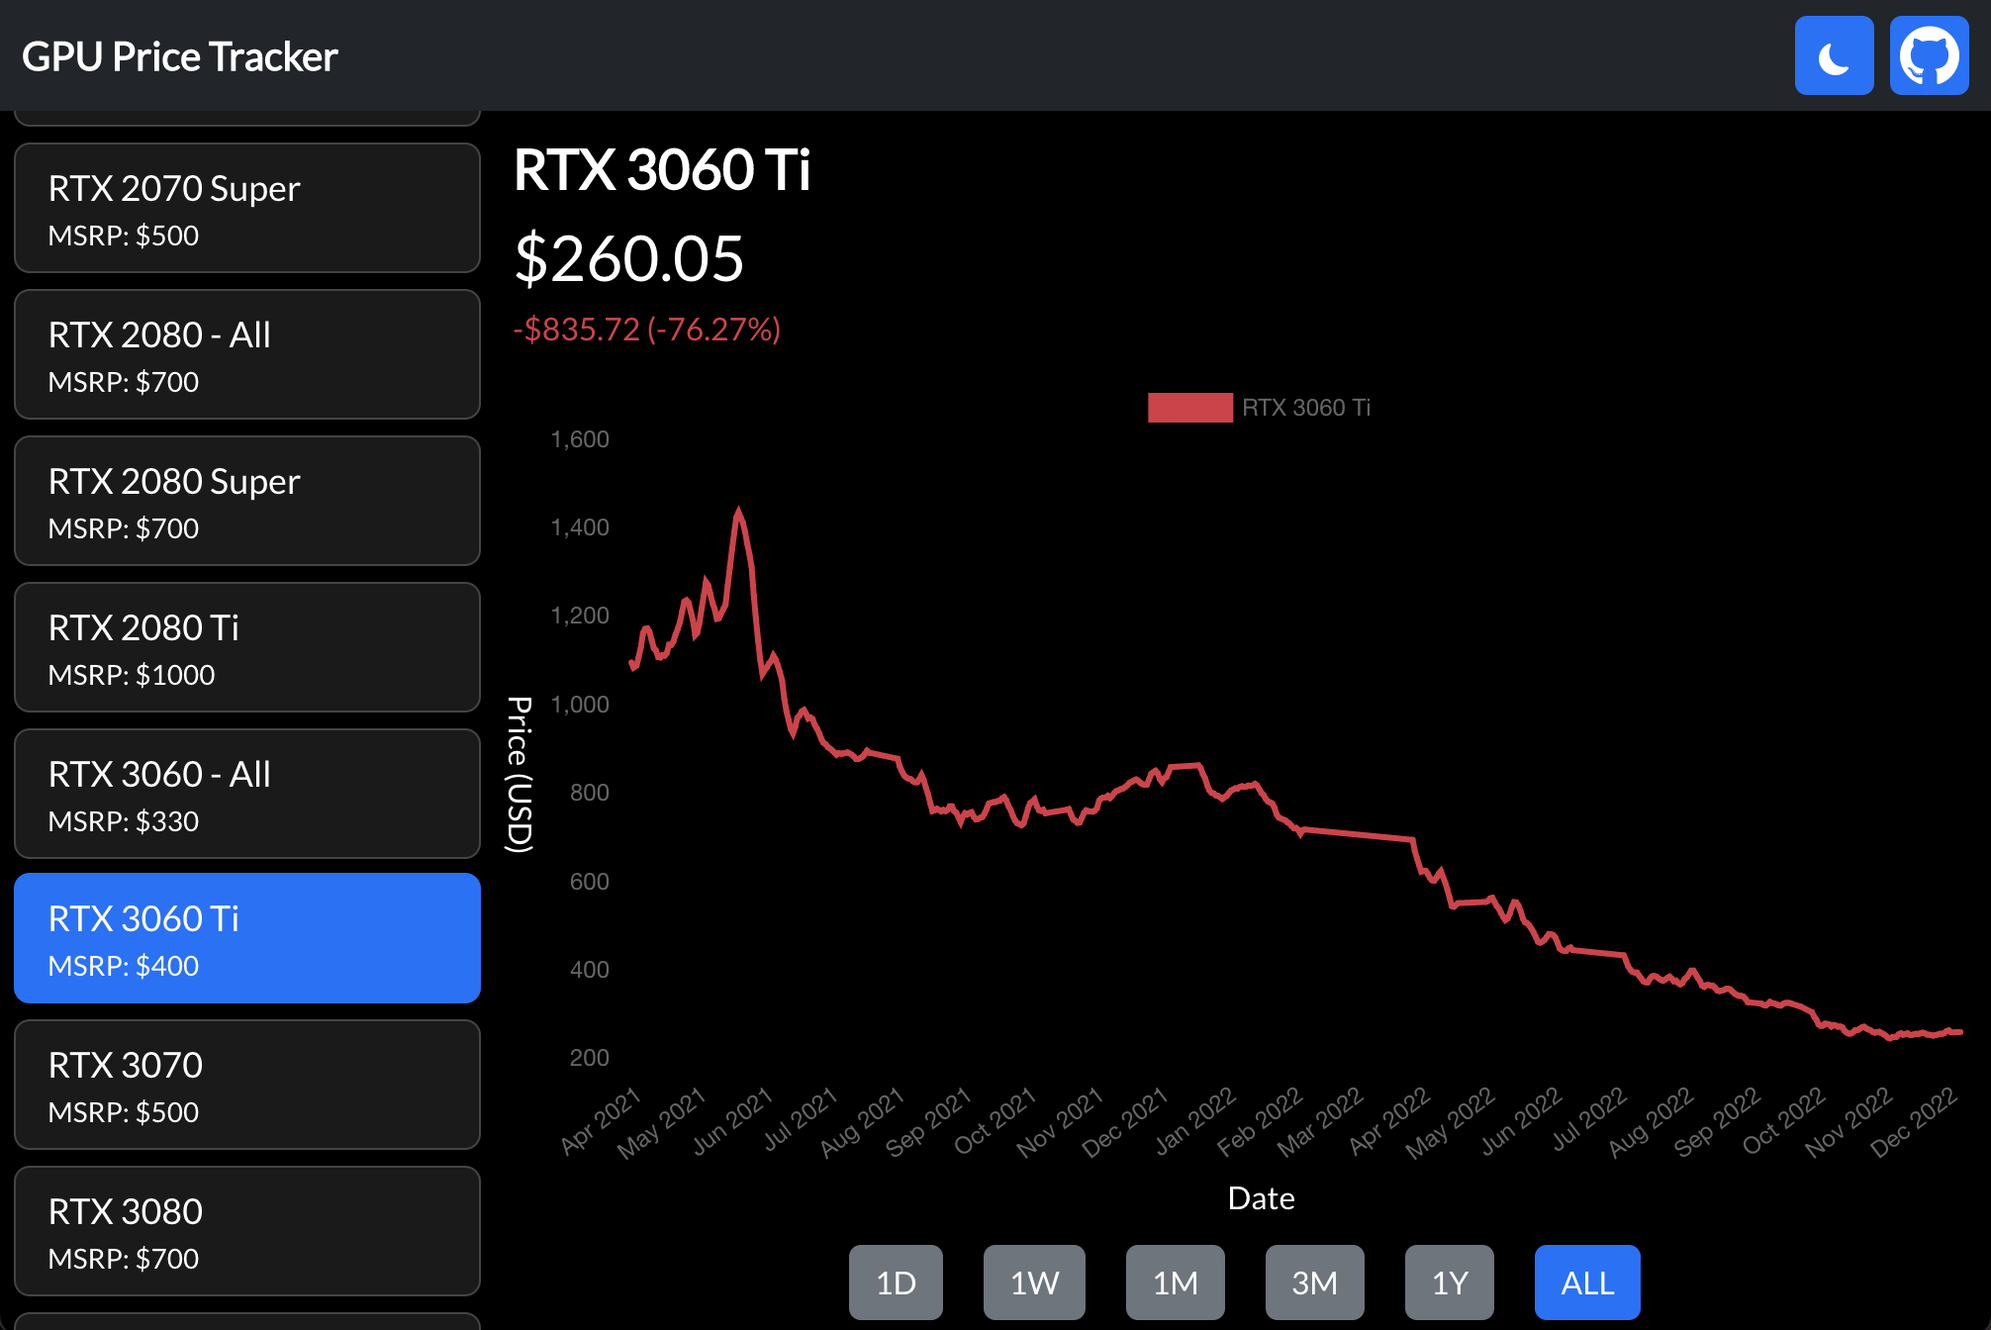
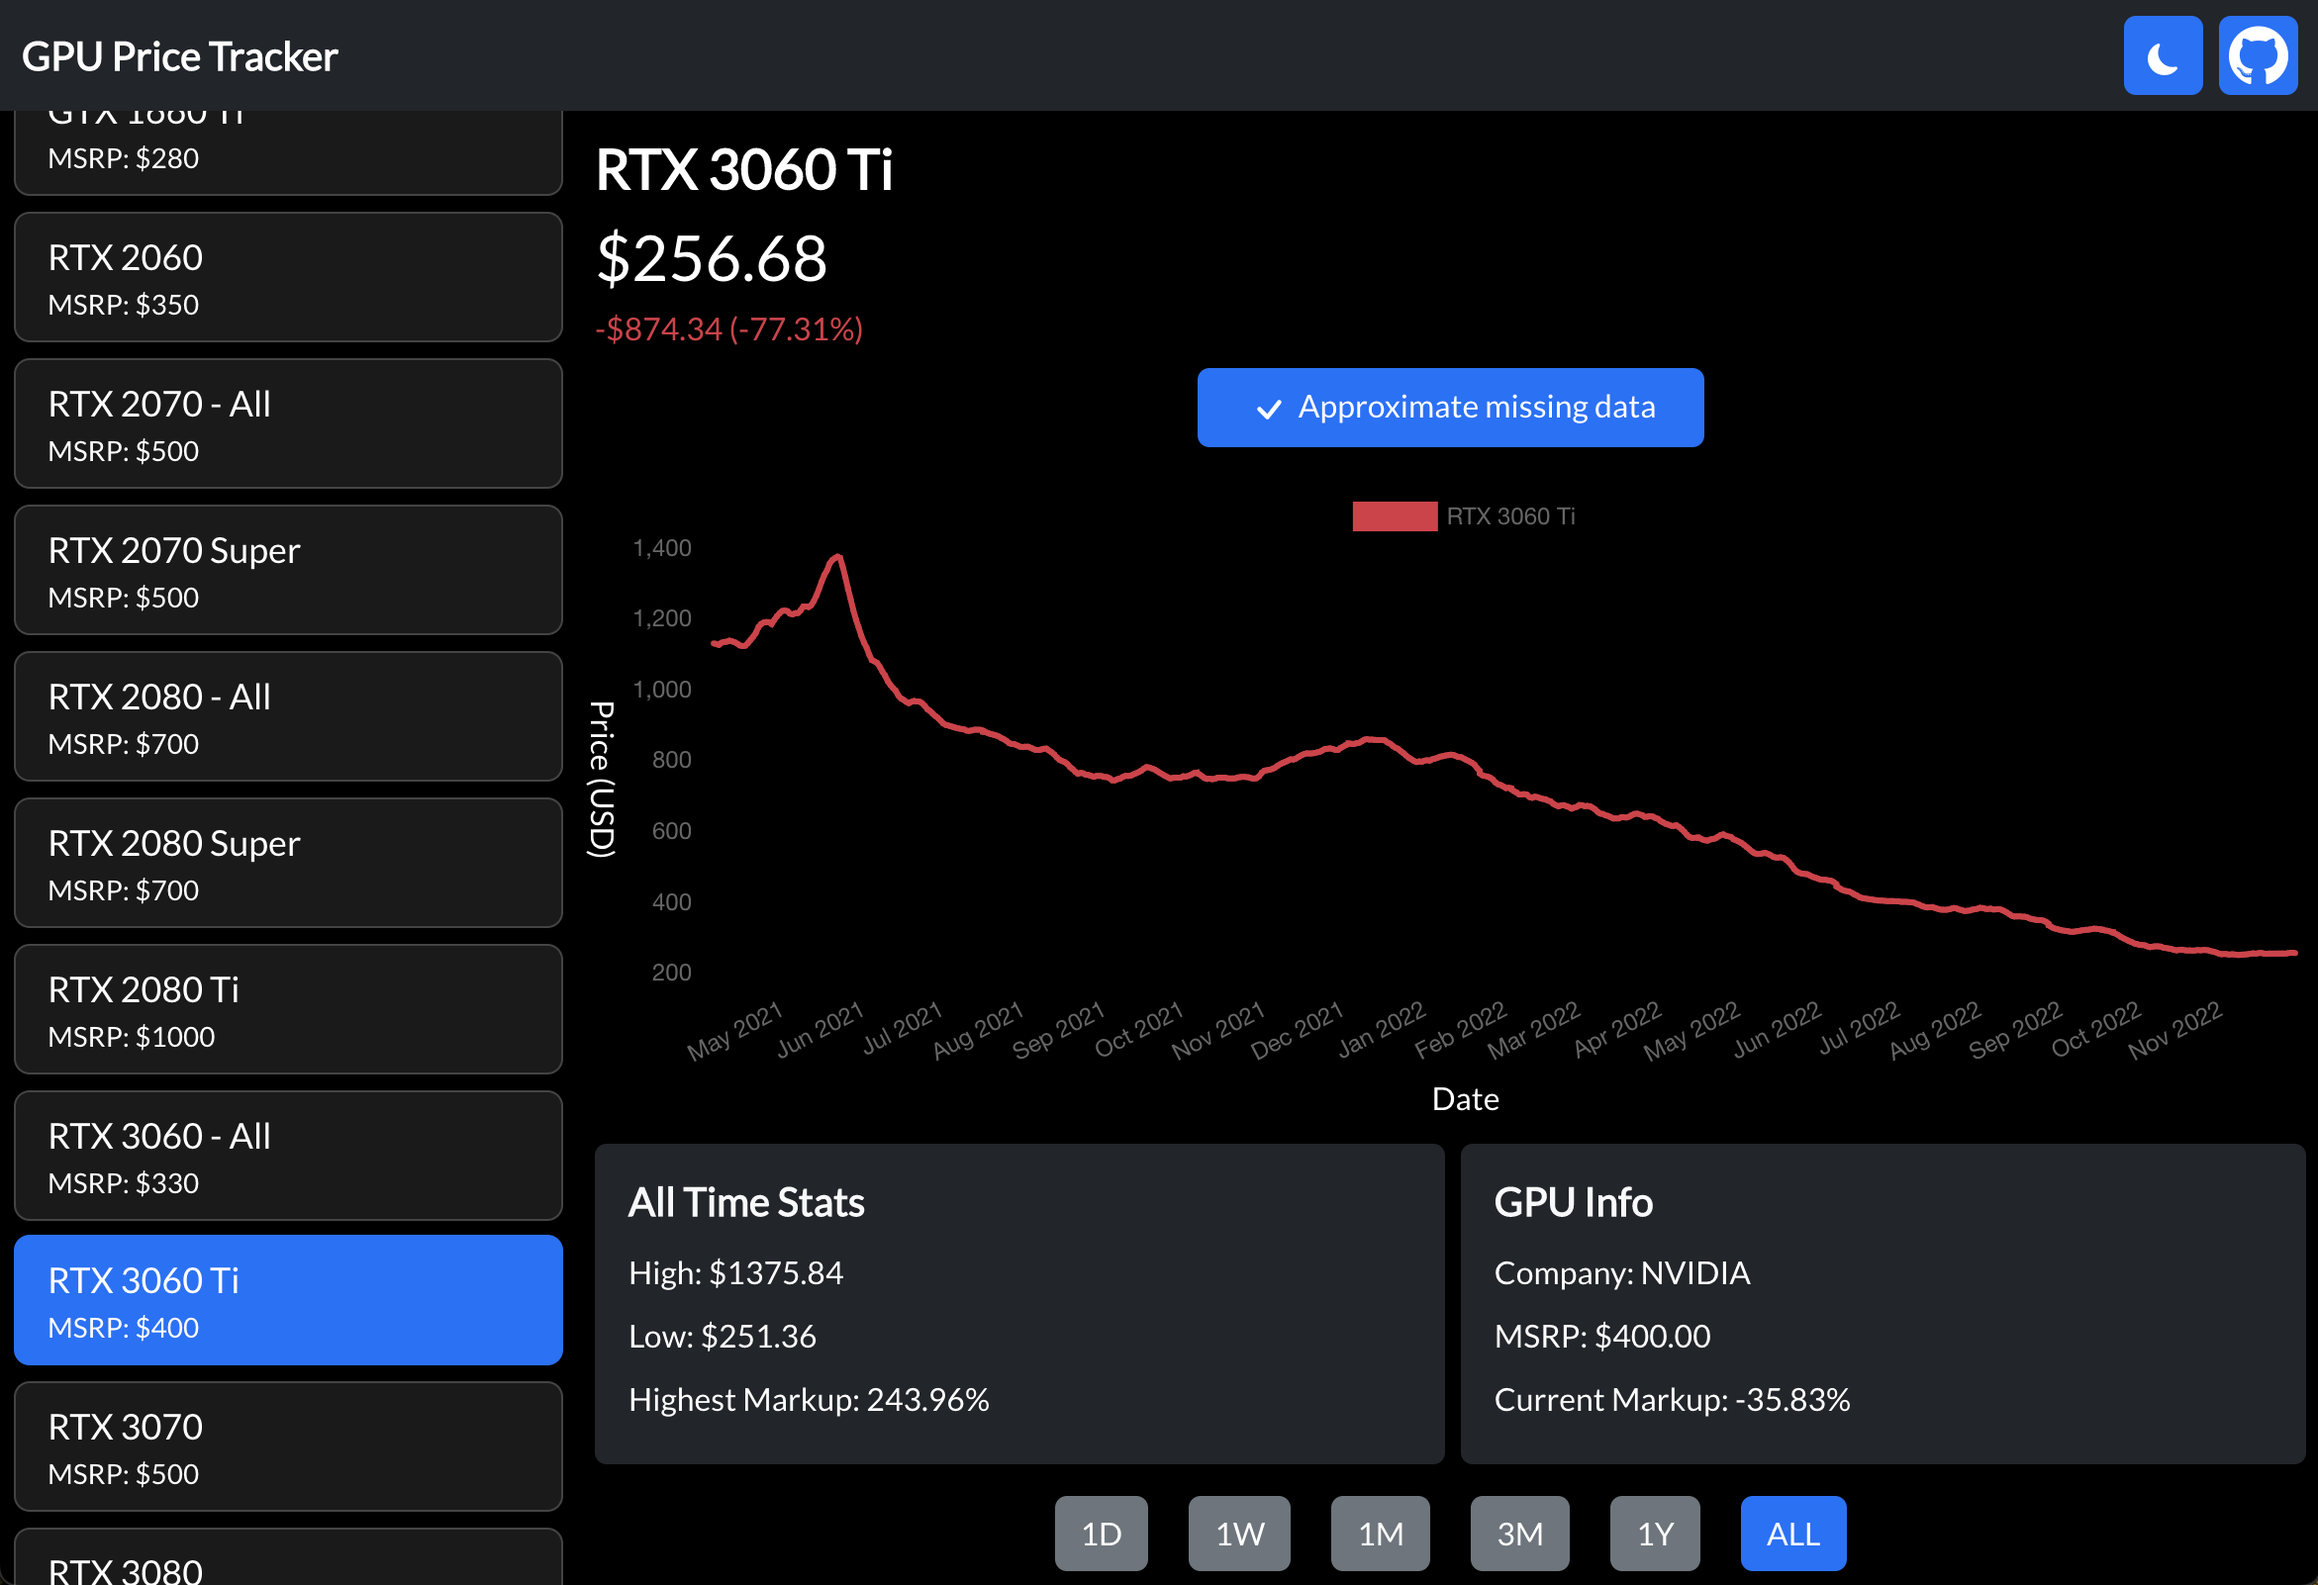
implement stats cards

diff --git a/react_app/src/App.tsx b/react_app/src/App.tsx
@@ -10,6 +10,7 @@ import ListGroup from 'react-bootstrap/ListGroup';
 import ToggleButtonGroup from 'react-bootstrap/ToggleButtonGroup';
 import ToggleButton from 'react-bootstrap/Button';
 import Spinner from 'react-bootstrap/Spinner';
+import Card from 'react-bootstrap/Card';
 
 import { Check, ArrowLeftShort, Moon, MoonFill } from 'react-bootstrap-icons';
 
@@ -88,7 +89,7 @@ function App() {
     <div className="App" data-theme={theme} style={{display: 'flex', flexFlow: 'column'}}>
       <Toolbar didSelect={didSelect} theme={theme} onBackClick={handleBackClick} onThemeChange={(newTheme: string) => setTheme(newTheme)}/>
       {didLoad ? (
-        <MainContent onListSelect={handleListSelect} didSelect={didSelect}/>
+        <MainContent theme={theme} onListSelect={handleListSelect} didSelect={didSelect}/>
       ) : (
         <div style={{display: 'flex', flexGrow: 1, flexBasis: 0}}>
           <div style={{display: 'flex', flexGrow: 1}}></div>
@@ -155,7 +156,7 @@ function MainContent(props: any) {
     priceDataset = granularData;
   }
   
-  prices = getMovingAverage(formatPriceData(priceDataset, selectedListItem, dayCount, 86400000, approximateMissing), 12);
+  prices = getMovingAverage(formatPriceData(priceDataset, selectedListItem, dayCount, (dayCount <= 30 ? 3600000 : 86400000), approximateMissing), 12);
   priceSummary = getPriceSummary(prices);
 
   if (priceSummary.change >= 0) {
@@ -256,7 +257,6 @@ function MainContent(props: any) {
             </Button>
             <div style={{flexGrow: 1}}></div>
           </div>
-          
         </div>
         <div style={{flexGrow: 1, flexBasis: 1, display: 'flex'}}>
           <div style={{flex: "1 0 0", display: "flex", flexFlow: "column"}}>
@@ -273,6 +273,29 @@ function MainContent(props: any) {
             <div style={{flex: "1 0 0"}}/>
           </div>
           <div style={{flex: "1 0 0"}}/>
+        </div>
+        <div style={{display: 'flex', flexGrow: 0, margin: 8}}>
+          <Card style={{flexGrow: 1}} bg={props.theme} border={props.theme} text={(props.theme == "light") ? "dark" : "light"}>
+            <Card.Body>
+              <Card.Title style={{fontWeight: 800}}>{(dayCount == 3650) ? "All Time Stats" : (dayCount + "D Stats")}</Card.Title>
+              <Card.Text>
+                <p style={{margin: 0, padding: 4, paddingLeft: 0}}>{"High: $" + priceSummary.high.toFixed(2)}</p>
+                <p style={{margin: 0, padding: 4, paddingLeft: 0}}>{"Low: $" + priceSummary.low.toFixed(2)}</p>
+                <p style={{margin: 0, padding: 4, paddingLeft: 0}}>{"Highest Markup: " + (((priceSummary.high / itemDisplayInfo[selectedListItem].msrp) - 1) * 100).toFixed(2) + "%"}</p>
+              </Card.Text>
+            </Card.Body>
+          </Card>
+          <div style={{margin: 0, padding: 0, width: 8, flexGrow: 0}}></div>
+          <Card style={{flexGrow: 1}} bg={props.theme} border={props.theme} text={(props.theme == "light") ? "dark" : "light"}>
+            <Card.Body>
+              <Card.Title style={{fontWeight: 800}}>GPU Info</Card.Title>
+              <Card.Text>
+                <p style={{margin: 0, padding: 4, paddingLeft: 0}}>{"Company: " + itemDisplayInfo[selectedListItem].company.toUpperCase()}</p>
+                <p style={{margin: 0, padding: 4, paddingLeft: 0}}>{"MSRP: $" + itemDisplayInfo[selectedListItem].msrp.toFixed(2)}</p>
+                <p style={{margin: 0, padding: 4, paddingLeft: 0}}>{"Current Markup: " + (((priceSummary.latest / itemDisplayInfo[selectedListItem].msrp) - 1) * 100).toFixed(2) + "%"}</p>
+              </Card.Text>
+            </Card.Body>
+          </Card>
         </div>
         <div style={{display: 'flex', margin: 8}}>
           <div style={{flexGrow: 1, flexBasis: 0}}></div>
